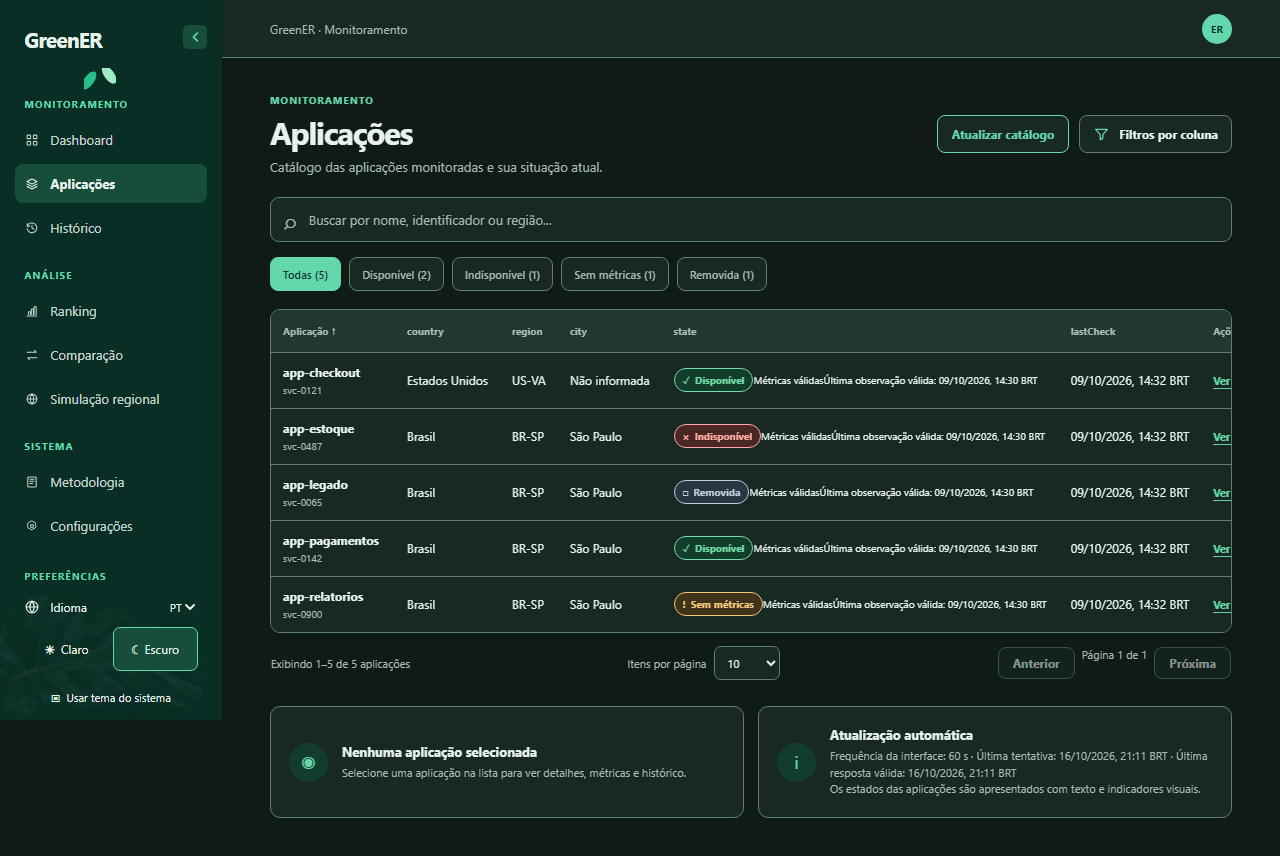
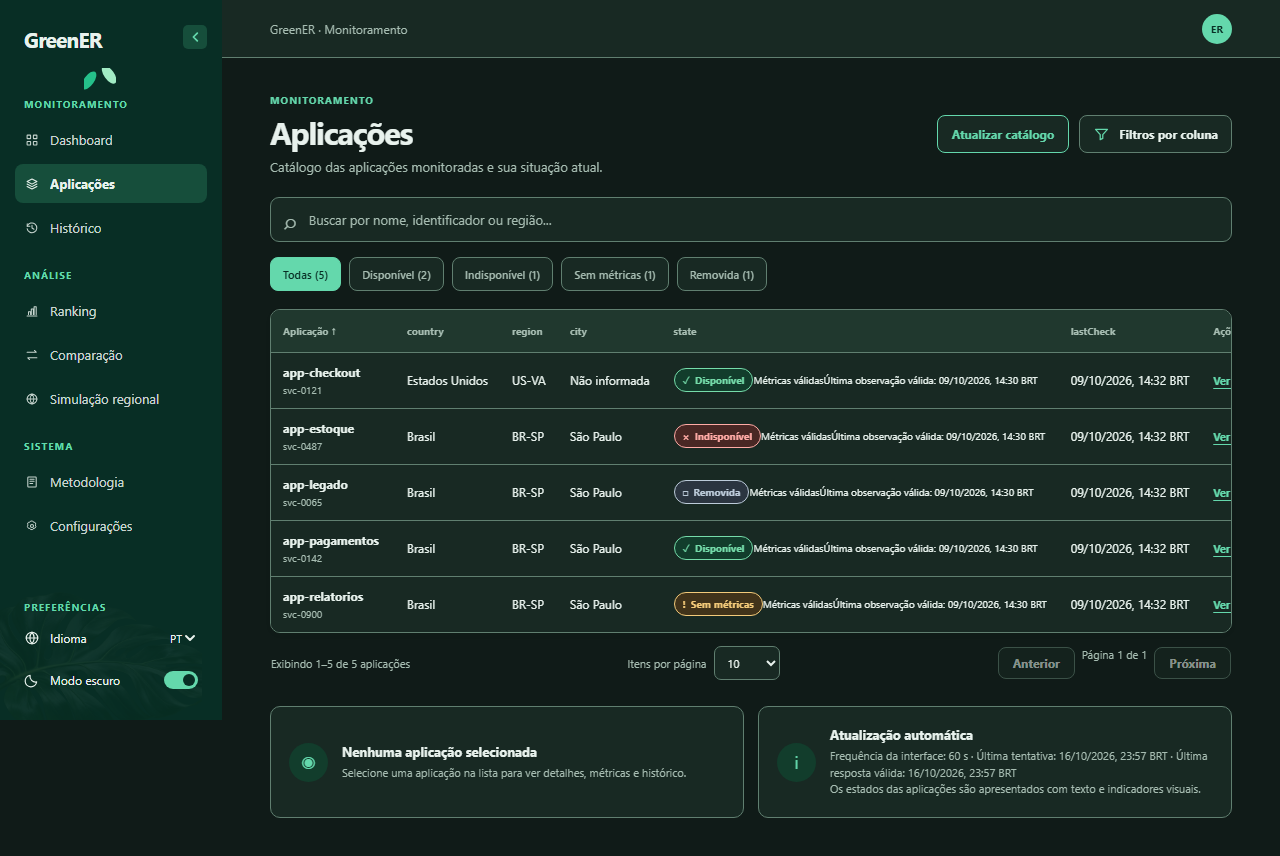
fix(frontend): alinhar interruptor de tema à referência
Refs #214

diff --git a/frontend/e2e/theme.spec.ts b/frontend/e2e/theme.spec.ts
@@ -1,25 +1,47 @@
 import { expect, test } from '@playwright/test'
 import { application, gate, mixedCatalog, mockApi, mockCatalog, row, unavailable } from './support/catalog.ts'
 
+test('interruptor único Modo escuro alterna entre claro e escuro', async ({ page }) => {
+  await page.emulateMedia({ colorScheme: 'light' })
+  await mockCatalog(page, [])
+  await page.goto('/')
+  const toggle = page.getByRole('switch', { name: 'Modo escuro', exact: true })
+  await expect(toggle).toHaveAttribute('aria-checked', 'false')
+  await expect(toggle.locator('.theme-switch > span')).toHaveCSS('transition-duration', '0.18s')
+  await toggle.click()
+  await expect(toggle).toHaveAttribute('aria-checked', 'true')
+  await expect(page.locator('html')).toHaveCSS('color-scheme', 'dark')
+  await toggle.click()
+  await expect(toggle).toHaveAttribute('aria-checked', 'false')
+  await expect(page.locator('html')).toHaveCSS('color-scheme', 'light')
+  await expect(page.getByRole('button', { name: 'Usar tema do sistema', exact: true })).toHaveCount(0)
+})
+
+test('interruptor respeita a preferência por movimento reduzido', async ({ page }) => {
+  await page.emulateMedia({ reducedMotion: 'reduce' })
+  await mockCatalog(page, [])
+  await page.goto('/')
+  await expect(page.getByRole('switch', { name: 'Modo escuro', exact: true }).locator('.theme-switch > span'))
+    .toHaveCSS('transition-property', 'none')
+})
+
 test('preferências de tema têm nomes acessíveis nos oito idiomas', async ({ page }) => {
   await mockCatalog(page, [])
   await page.goto('/')
   const language = page.getByRole('combobox').filter({ has: page.locator('option[value="en-US"]') })
   const cases = [
-    ['pt-BR', 'Claro', 'Escuro', 'Usar tema do sistema'],
-    ['en-US', 'Light', 'Dark', 'Use system theme'],
-    ['es-ES', 'Claro', 'Oscuro', 'Usar tema del sistema'],
-    ['fr-FR', 'Clair', 'Sombre', 'Utiliser le thème du système'],
-    ['de-DE', 'Hell', 'Dunkel', 'Systemdesign verwenden'],
-    ['it-IT', 'Chiaro', 'Scuro', 'Usa il tema di sistema'],
-    ['ja-JP', 'ライト', 'ダーク', 'システムのテーマを使用'],
-    ['zh-CN', '浅色', '深色', '使用系统主题'],
+    ['pt-BR', 'Modo escuro'],
+    ['en-US', 'Dark mode'],
+    ['es-ES', 'Modo oscuro'],
+    ['fr-FR', 'Mode sombre'],
+    ['de-DE', 'Dunkelmodus'],
+    ['it-IT', 'Modalità scura'],
+    ['ja-JP', 'ダークモード'],
+    ['zh-CN', '深色模式'],
   ]
-  for (const [locale, light, dark, system] of cases) {
+  for (const [locale, label] of cases) {
     await language.selectOption(locale)
-    await expect(page.getByRole('button', { name: light, exact: true })).toBeVisible()
-    await expect(page.getByRole('button', { name: dark, exact: true })).toBeVisible()
-    await expect(page.getByRole('button', { name: system, exact: true })).toHaveAttribute('aria-pressed', 'true')
+    await expect(page.getByRole('switch', { name: label, exact: true })).toBeVisible()
   }
 })
 
@@ -27,40 +49,41 @@ test('escolha explícita persiste na recarga e na navegação sem perder filtros
   await page.emulateMedia({ colorScheme: 'light' })
   await mockCatalog(page, [application()])
   await page.goto('/?search=pagamentos')
-  await page.getByRole('button', { name: 'Escuro', exact: true }).click()
+  await page.getByRole('switch', { name: 'Modo escuro', exact: true }).click()
   await expect(page.locator('html')).toHaveCSS('color-scheme', 'dark')
   await page.reload()
-  await expect(page.getByRole('button', { name: 'Escuro', exact: true })).toHaveAttribute('aria-pressed', 'true')
+  await expect(page.getByRole('switch', { name: 'Modo escuro', exact: true })).toHaveAttribute('aria-checked', 'true')
   await row(page, 'svc-0142').getByRole('link').click()
   await expect(page.getByRole('heading', { name: 'Identificação e situação', exact: true })).toBeVisible()
   await expect(page.locator('html')).toHaveCSS('color-scheme', 'dark')
   await page.getByRole('link', { name: /voltar/i }).click()
   await expect(page).toHaveURL(/search=pagamentos/)
-  await page.getByRole('button', { name: 'Claro', exact: true }).click()
+  await page.getByRole('switch', { name: 'Modo escuro', exact: true }).click()
   await page.reload()
   await expect(page.locator('html')).toHaveCSS('color-scheme', 'light')
-  await expect(page.getByRole('button', { name: 'Claro', exact: true })).toHaveAttribute('aria-pressed', 'true')
+  await expect(page.getByRole('switch', { name: 'Modo escuro', exact: true })).toHaveAttribute('aria-checked', 'false')
 })
 
-test('sistema acompanha mudanças, escolha manual prevalece e ação restaura o acompanhamento', async ({ page }) => {
+test('sistema acompanha mudanças até a primeira escolha manual', async ({ page }) => {
   await page.emulateMedia({ colorScheme: 'dark' })
   await mockCatalog(page, [])
   await page.goto('/')
-  const system = page.getByRole('button', { name: 'Usar tema do sistema', exact: true })
-  await expect(system).toHaveAttribute('aria-pressed', 'true')
+  const toggle = page.getByRole('switch', { name: 'Modo escuro', exact: true })
+  await expect(toggle).toHaveAttribute('aria-checked', 'true')
   await expect(page.locator('html')).toHaveCSS('color-scheme', 'dark')
   await page.emulateMedia({ colorScheme: 'light' })
   await expect(page.locator('html')).toHaveCSS('color-scheme', 'light')
-  await page.getByRole('button', { name: 'Escuro', exact: true }).click()
+  await expect(toggle).toHaveAttribute('aria-checked', 'false')
+  await toggle.click()
   await page.emulateMedia({ colorScheme: 'dark' })
   await page.emulateMedia({ colorScheme: 'light' })
   await expect(page.locator('html')).toHaveCSS('color-scheme', 'dark')
-  await system.click()
+  await toggle.click()
   await expect(page.locator('html')).toHaveCSS('color-scheme', 'light')
   await page.reload()
-  await expect(system).toHaveAttribute('aria-pressed', 'true')
+  await expect(toggle).toHaveAttribute('aria-checked', 'false')
   await page.emulateMedia({ colorScheme: 'dark' })
-  await expect(page.locator('html')).toHaveCSS('color-scheme', 'dark')
+  await expect(page.locator('html')).toHaveCSS('color-scheme', 'light')
 })
 
 for (const saved of ['light', 'dark', 'system', 'invalid', null]) {
@@ -80,24 +103,21 @@ test('controles funcionam por teclado na sidebar recolhida e no mobile', async (
   await mockCatalog(page, mixedCatalog)
   await page.goto('/')
   await page.getByRole('button', { name: 'Recolher navegação' }).click()
-  const dark = page.getByRole('button', { name: 'Escuro', exact: true })
+  const dark = page.getByRole('switch', { name: 'Modo escuro', exact: true })
   await dark.focus()
   await page.keyboard.press('Enter')
-  await expect(dark).toHaveAttribute('aria-pressed', 'true')
+  await expect(dark).toHaveAttribute('aria-checked', 'true')
   await expect(dark).toBeFocused()
   await expect(dark).toHaveCSS('outline-style', 'solid')
-  await page.keyboard.press('Tab')
-  const system = page.getByRole('button', { name: 'Usar tema do sistema', exact: true })
-  await expect(system).toBeFocused()
   await page.keyboard.press('Space')
-  await expect(system).toHaveAttribute('aria-pressed', 'true')
+  await expect(dark).toHaveAttribute('aria-checked', 'false')
   await page.setViewportSize({ width: 390, height: 844 })
   await page.getByRole('button', { name: 'Abrir menu' }).click()
-  await expect(system).toBeVisible()
-  const size = await system.boundingBox()
+  await expect(dark).toBeVisible()
+  const size = await dark.boundingBox()
   expect(size?.height).toBeGreaterThanOrEqual(44)
-  await page.getByRole('button', { name: 'Claro', exact: true }).click()
-  await expect(page.locator('html')).toHaveCSS('color-scheme', 'light')
+  await dark.click()
+  await expect(page.locator('html')).toHaveCSS('color-scheme', 'dark')
   await page.keyboard.press('Escape')
   await expect(page.getByRole('button', { name: 'Abrir menu' })).toBeFocused()
   await expect(page.getByRole('heading', { name: 'app-pagamentos', exact: true })).toBeVisible()
@@ -111,11 +131,11 @@ test('armazenamento bloqueado não impede carregar e escolher o tema na sessão'
   await mockCatalog(page, [])
   await page.goto('/')
   await expect(page.getByRole('heading', { level: 1, name: 'Aplicações', exact: true })).toBeVisible()
-  await page.getByRole('button', { name: 'Claro', exact: true }).click()
+  await page.getByRole('switch', { name: 'Modo escuro', exact: true }).click()
   await expect(page.locator('html')).toHaveCSS('color-scheme', 'light')
   await page.emulateMedia({ colorScheme: 'light' })
   await page.emulateMedia({ colorScheme: 'dark' })
-  await expect(page.getByRole('button', { name: 'Claro', exact: true })).toHaveAttribute('aria-pressed', 'true')
+  await expect(page.getByRole('switch', { name: 'Modo escuro', exact: true })).toHaveAttribute('aria-checked', 'false')
   await expect(page.locator('html')).toHaveCSS('color-scheme', 'light')
 })
 
@@ -123,7 +143,8 @@ test('texto, estados e controles mantêm contraste nos dois temas', async ({ pag
   await mockCatalog(page, mixedCatalog)
   await page.goto('/')
   for (const name of ['Claro', 'Escuro']) {
-    await page.getByRole('button', { name, exact: true }).click()
+    const toggle = page.getByRole('switch', { name: 'Modo escuro', exact: true })
+    if ((await toggle.getAttribute('aria-checked')) !== String(name === 'Escuro')) await toggle.click()
     const checks = await page.evaluate(() => {
       function luminance(color: string) {
         const channels = color.match(/[\d.]+/g)!.slice(0, 3).map(Number).map((channel) => {
@@ -140,7 +161,7 @@ test('texto, estados e controles mantêm contraste nos dois temas', async ({ pag
         const color = getComputedStyle(element).backgroundColor
         return color === 'rgba(0, 0, 0, 0)' && element.parentElement ? background(element.parentElement) : color
       }
-      const text = [...document.querySelectorAll('h1, .page-heading p, th, td, .identifier, .detail-link, .state-badge, .theme-selector button, .button:not(:disabled)')]
+      const text = [...document.querySelectorAll('h1, .page-heading p, th, td, .identifier, .detail-link, .state-badge, .theme-toggle, .button:not(:disabled)')]
         .filter((element) => element.getClientRects().length > 0)
         .map((element) => ({ label: element.textContent, minimum: 4.5, actual: ratio(getComputedStyle(element).color, background(element)) }))
       const search = document.querySelector('input[type="search"]')!.parentElement!
@@ -165,7 +186,8 @@ for (const theme of ['Claro', 'Escuro']) {
       }
     })
     await page.goto('/')
-    await page.getByRole('button', { name: theme, exact: true }).click()
+    const toggle = page.getByRole('switch', { name: 'Modo escuro', exact: true })
+    if ((await toggle.getAttribute('aria-checked')) !== String(theme === 'Escuro')) await toggle.click()
     try {
       await expect(page.getByText('Carregando aplicações...', { exact: true })).toBeVisible()
     } finally { pending.release() }

diff --git a/frontend/src/components/ThemeSelector.css b/frontend/src/components/ThemeSelector.css
@@ -1,12 +1,16 @@
-.theme-selector { display: flex; flex-direction: column; gap: 4px; min-width: 0; }
-.theme-options { display: flex; flex-wrap: wrap; gap: 4px; }
-.theme-selector button { display: flex; align-items: center; justify-content: center; gap: 6px; min-width: 44px; min-height: 44px; flex: 1; border: 1px solid transparent; border-radius: 7px; padding: 6px; color: var(--navigation-text); background: transparent; font: inherit; font-size: 12px; overflow-wrap: anywhere; cursor: pointer; }
-.theme-selector button:hover { background: var(--navigation-active); }
-.theme-selector button[aria-pressed='true'] { border-color: var(--navigation-focus); background: var(--navigation-active); }
-.theme-selector button:focus-visible { outline-color: var(--navigation-focus); }
-.theme-system { font-size: 11px !important; }
+.theme-toggle { display: flex; align-items: center; gap: 10px; width: 100%; min-height: 44px; border: 0; border-radius: 7px; padding: 0; color: var(--navigation-text); background: transparent; font: inherit; text-align: left; cursor: pointer; }
+.theme-icon { width: 16px; height: 16px; flex: 0 0 auto; fill: none; stroke: currentColor; stroke-linecap: round; stroke-linejoin: round; stroke-width: 1.5; }
+.theme-label { min-width: 0; overflow-wrap: anywhere; font-size: 12px; }
+.theme-switch { display: flex; align-items: center; flex: 0 0 auto; width: 34px; height: 18px; margin-left: auto; border-radius: 999px; padding: 3px; background: var(--switch-track-off); }
+.theme-switch > span { width: 12px; height: 12px; border-radius: 50%; background: var(--switch-thumb-off); transition: transform 180ms ease-out; }
+.theme-toggle[aria-checked='true'] .theme-switch { background: var(--accent-default); }
+.theme-toggle[aria-checked='true'] .theme-switch > span { transform: translateX(16px); background: var(--accent-on-accent); }
+.theme-toggle:focus-visible { outline: 2px solid var(--navigation-focus); outline-offset: 3px; }
+.theme-toggle:disabled { cursor: not-allowed; opacity: .5; }
+@media (prefers-reduced-motion: reduce) {
+  .theme-switch > span { transition: none; }
+}
 @media (min-width: 641px) {
-  .sidebar-collapsed .theme-option-label { display: none; }
-  .sidebar-collapsed .theme-options { flex-direction: column; }
-  .sidebar-collapsed .sidebar-preferences { max-height: none; }
+  .sidebar-collapsed .theme-toggle { justify-content: center; }
+  .sidebar-collapsed .theme-label, .sidebar-collapsed .theme-switch { display: none; }
 }

diff --git a/frontend/e2e/applications.spec.ts b/frontend/e2e/applications.spec.ts
@@ -569,21 +569,21 @@ test('preferências da sidebar alternam tema e mantêm os ícones ao recolher', 
   await page.goto('/')
 
   const sidebar = page.getByRole('complementary')
-  const themeToggle = page.getByRole('button', { name: 'Escuro', exact: true })
-  await expect(themeToggle).toHaveAttribute('aria-pressed', 'false')
+  const themeToggle = page.getByRole('switch', { name: 'Modo escuro', exact: true })
+  await expect(themeToggle).toHaveAttribute('aria-checked', 'false')
   await expect(sidebar).toHaveCSS('background-color', 'rgb(0, 61, 49)')
   await themeToggle.click()
-  await expect(themeToggle).toHaveAttribute('aria-pressed', 'true')
+  await expect(themeToggle).toHaveAttribute('aria-checked', 'true')
   await expect(sidebar).toHaveCSS('background-color', 'rgb(8, 46, 37)')
   await page.reload()
-  await expect(page.getByRole('button', { name: 'Escuro', exact: true })).toHaveAttribute('aria-pressed', 'true')
+  await expect(page.getByRole('switch', { name: 'Modo escuro', exact: true })).toHaveAttribute('aria-checked', 'true')
   await expect(sidebar).toHaveCSS('background-color', 'rgb(8, 46, 37)')
 
   await page.getByRole('button', { name: 'Recolher navegação' }).click()
-  const collapsedThemeToggle = page.getByRole('button', { name: 'Escuro', exact: true })
+  const collapsedThemeToggle = page.getByRole('switch', { name: 'Modo escuro', exact: true })
   await expect(collapsedThemeToggle).toBeVisible()
   await expect(page.getByRole('combobox', { name: 'Idioma' })).toBeVisible()
-  await page.getByRole('button', { name: 'Claro', exact: true }).click()
+  await collapsedThemeToggle.click()
   await expect(sidebar).toHaveCSS('background-color', 'rgb(0, 61, 49)')
 })
 
@@ -594,7 +594,7 @@ test('foco do menu móvel entra no drawer e permanece contido por Tab', async ({
 
   await page.getByRole('button', { name: 'Abrir menu' }).click()
   const closeButton = page.getByRole('dialog').getByRole('button', { name: 'Fechar menu' })
-  const themeToggle = page.getByRole('dialog').getByRole('button', { name: 'Usar tema do sistema', exact: true })
+  const themeToggle = page.getByRole('dialog').getByRole('switch', { name: 'Modo escuro', exact: true })
   await expect(closeButton).toBeFocused()
 
   await page.keyboard.press('Shift+Tab')

diff --git a/frontend/src/app/useTheme.ts b/frontend/src/app/useTheme.ts
@@ -9,19 +9,22 @@ function preferenceOf(value: string | null | undefined): ThemePreference {
 export function useTheme() {
   const [preference, setPreference] = useState<ThemePreference>(() =>
     preferenceOf(document.documentElement.dataset.themePreference))
+  const [systemDark, setSystemDark] = useState(() => window.matchMedia('(prefers-color-scheme: dark)').matches)
+  const systemTheme = systemDark ? 'dark' : 'light'
+  const theme = preference === 'system' ? systemTheme : preference
 
   useEffect(() => {
     const media = window.matchMedia('(prefers-color-scheme: dark)')
-    const apply = () => {
-      const theme = preference === 'system' ? (media.matches ? 'dark' : 'light') : preference
-      document.documentElement.dataset.themePreference = preference
-      document.documentElement.dataset.theme = theme
-      document.documentElement.style.colorScheme = theme
-    }
-    apply()
-    media.addEventListener('change', apply)
-    return () => media.removeEventListener('change', apply)
-  }, [preference])
+    const followSystem = (event: MediaQueryListEvent) => setSystemDark(event.matches)
+    media.addEventListener('change', followSystem)
+    return () => media.removeEventListener('change', followSystem)
+  }, [])
+
+  useEffect(() => {
+    document.documentElement.dataset.themePreference = preference
+    document.documentElement.dataset.theme = theme
+    document.documentElement.style.colorScheme = theme
+  }, [preference, theme])
 
   function chooseTheme(next: ThemePreference) {
     setPreference(next)
@@ -29,5 +32,5 @@ export function useTheme() {
     catch { /* Keep the choice in memory when persistence is blocked. */ }
   }
 
-  return { preference, chooseTheme }
+  return { theme, chooseTheme }
 }

diff --git a/frontend/src/components/ThemeSelector.tsx b/frontend/src/components/ThemeSelector.tsx
@@ -4,18 +4,11 @@ import './ThemeSelector.css'
 
 export function ThemeSelector() {
   const { t } = useTranslation('common')
-  const { preference, chooseTheme } = useTheme()
-  return <div className="theme-selector" role="group" aria-label={t('theme.label')}>
-    <div className="theme-options">
-      <button type="button" aria-label={t('theme.light')} aria-pressed={preference === 'light'} onClick={() => chooseTheme('light')}>
-        <span aria-hidden="true">☀</span><span className="theme-option-label">{t('theme.light')}</span>
-      </button>
-      <button type="button" aria-label={t('theme.dark')} aria-pressed={preference === 'dark'} onClick={() => chooseTheme('dark')}>
-        <span aria-hidden="true">☾</span><span className="theme-option-label">{t('theme.dark')}</span>
-      </button>
-    </div>
-    <button className="theme-system" type="button" aria-label={t('theme.system')} aria-pressed={preference === 'system'} onClick={() => chooseTheme('system')}>
-      <span aria-hidden="true">▣</span><span className="theme-option-label">{t('theme.system')}</span>
-    </button>
-  </div>
+  const { theme, chooseTheme } = useTheme()
+  const dark = theme === 'dark'
+  return <button className="theme-toggle" type="button" role="switch" aria-label={t('theme.darkMode')} aria-checked={dark} onClick={() => chooseTheme(dark ? 'light' : 'dark')}>
+    <svg className="theme-icon" aria-hidden="true" viewBox="0 0 20 20"><path d="M15.8 12.4A7 7 0 0 1 7.6 4.2 7.2 7.2 0 1 0 15.8 12.4Z" /></svg>
+    <span className="theme-label">{t('theme.darkMode')}</span>
+    <span className="theme-switch" aria-hidden="true"><span /></span>
+  </button>
 }

diff --git a/frontend/src/components/AppShell.css b/frontend/src/components/AppShell.css
@@ -83,7 +83,7 @@
 }
 .sidebar nav button:focus-visible, .sidebar nav a:focus-visible, .sidebar-collapse-toggle:focus-visible, .brand:focus-visible { outline: 2px solid var(--sidebar-accent); outline-offset: 2px; }
 @media (prefers-reduced-motion: reduce) {
-  .app-layout, .sidebar, .brand-name, .brand-initial, .sidebar-leaf-mark, .nav-heading, .nav-label, .sidebar-preferences, .sidebar-collapse-toggle svg { transition-duration: .01ms !important; }
+  .app-layout, .sidebar, .brand-name, .brand-initial, .sidebar-leaf-mark, .nav-heading, .nav-label, .sidebar-preferences, .sidebar-collapse-toggle svg { transition-duration: .01ms; }
 }
 .topbar-actions { display: flex; align-items: center; gap: 14px; }
 @media (max-width: 640px) {

diff --git a/frontend/src/styles/theme.css b/frontend/src/styles/theme.css
@@ -27,6 +27,8 @@
   --neutral-background: #eef1f6;
   --navigation-text: #e8f2ed;
   --navigation-focus: #64d8ac;
+  --switch-track-off: #4f6e60;
+  --switch-thumb-off: #e8f2ed;
 }
 :root[data-theme='dark'] {
   --background-page: #101b18;
@@ -56,4 +58,6 @@
   --neutral-background: #2b3540;
   --navigation-text: #e8f2ed;
   --navigation-focus: #64d8ac;
+  --switch-track-off: #4f6e60;
+  --switch-thumb-off: #e8f2ed;
 }

diff --git a/frontend/README.md b/frontend/README.md
@@ -55,7 +55,10 @@ frontend; o gate SonarQube Cloud continua obrigatório na PR para `develop`.
 
 ## Temas (US-17 / #214)
 
-As preferências da sidebar oferecem Claro/Escuro e a ação Usar tema do sistema.
+As preferências da sidebar oferecem um único interruptor “Modo escuro”, conforme
+a revisão visual do solicitante: desligado aplica claro; ligado aplica escuro.
+O primeiro acesso segue o sistema até a primeira interação. Esta revisão remove
+a ação visível de retorno ao sistema, ajustando esse critério original da US-17.
 A preferência local (`greener-theme`: `light`, `dark`, `system`) é distinta da
 aparência efetiva. Ausência ou valor inválido segue o sistema; escolhas antigas
 claro/escuro continuam válidas. Armazenamento indisponível não impede alternar
@@ -64,7 +67,7 @@ na sessão, mas não garante persistência após recarga.
 O script clássico bloqueante em `public/theme-init.js`, referenciado no início
 do documento, aplica a escolha antes da primeira pintura. `app/useTheme.ts`
 coordena a preferência e mudanças do sistema; `components/ThemeSelector` apresenta
-os controles. Os tokens ficam em `styles/theme.css`, no elemento raiz, e os
+o interruptor. Os tokens ficam em `styles/theme.css`, no elemento raiz, e os
 estilos das páginas consomem esses tokens. Não há chamada de API para temas.
 
 A referência é a tabela semântica inferior do PNG “Design System · Cores e

diff --git a/docs/ja-JP/guide/monitoring.md b/docs/ja-JP/guide/monitoring.md
@@ -38,6 +38,6 @@ UIは試行時刻と有効な応答時刻を表示します。成功後の失敗
 
 ## テーマの設定
 
-ナビゲーションの設定で **ライト** または **ダーク** を選択します。**システムのテーマを使用** を選ぶと、使用中の変更も含めてシステムの外観に自動で追従します。初回アクセス時はシステムに従います。
+ナビゲーションの設定で **ダークモード** スイッチを使用します。オフでライト、オンでダークになります。初回アクセス時は、スイッチを操作するまで使用中の変更も含めてシステムの外観に従います。その後は明示的な選択が優先されます。この画面にはシステムへの追従に戻す操作はありません。
 
 設定はカタログ、詳細、共通レイアウトに適用され、フィルターやデータは変更しません。このブラウザーの `greener-theme` に保存され、次回も使用されます。保存がブロックされてもセッション中は選択できますが、再読み込みで失われる場合があります。

diff --git a/docs/fr-FR/guide/monitoring.md b/docs/fr-FR/guide/monitoring.md
@@ -38,6 +38,6 @@ Signaler environnement, ID, filtres, date/heure avec fuseau, action et résultat
 
 ## Préférence de thème
 
-Dans les préférences de navigation, choisissez **Clair** ou **Sombre**. **Utiliser le thème du système** rétablit le suivi automatique de l’apparence du système, y compris ses changements pendant l’utilisation. Lors de la première visite, GreenER suit le système.
+Dans les préférences de navigation, utilisez l’interrupteur **Mode sombre** : désactivé pour le thème clair, activé pour le thème sombre. Lors de la première visite, GreenER suit l’apparence du système, y compris ses changements pendant l’utilisation, jusqu’à l’activation de l’interrupteur. Votre choix explicite prévaut ensuite ; cette interface ne propose pas d’action pour rétablir le suivi du système.
 
 Le choix s’applique au catalogue, aux détails et à la présentation globale sans modifier les filtres ni les données. Il est conservé dans ce navigateur sous `greener-theme` pour la prochaine visite. Si le stockage est bloqué, le choix fonctionne pendant la session mais peut être perdu au rechargement.

diff --git a/docs/guide/monitoring.md b/docs/guide/monitoring.md
@@ -42,6 +42,6 @@ Ao relatar um problema, informe ambiente, ID, filtros, horário com fuso, ação
 
 ## Preferência de tema
 
-Nas preferências da navegação, escolha **Claro** ou **Escuro**. A ação **Usar tema do sistema** restaura o acompanhamento automático da aparência do sistema, inclusive quando ela muda durante o uso. No primeiro acesso, o GreenER segue o sistema.
+Nas preferências da navegação, use o interruptor **Modo escuro**: desligado aplica claro; ligado aplica escuro. No primeiro acesso, o GreenER acompanha a aparência do sistema, inclusive suas mudanças durante o uso, até você acionar o interruptor. A partir daí, vale a escolha explícita; esta interface não oferece uma ação para voltar a seguir o sistema.
 
 A escolha vale para o catálogo, detalhe e layout global, sem alterar filtros ou dados. Ela fica neste navegador, na chave local `greener-theme`, e é recuperada no próximo acesso. Se o navegador bloquear o armazenamento, a escolha continua válida durante a sessão, mas poderá não sobreviver à recarga.

diff --git a/docs/it-IT/guide/monitoring.md b/docs/it-IT/guide/monitoring.md
@@ -38,6 +38,6 @@ Segnalare ambiente, ID, filtri, data/ora con fuso, azione, atteso/osservato. Scr
 
 ## Preferenza del tema
 
-Nelle preferenze di navigazione, scegli **Chiaro** o **Scuro**. **Usa il tema di sistema** ripristina l’adeguamento automatico all’aspetto del sistema, anche quando cambia durante l’utilizzo. Alla prima visita, GreenER segue il sistema.
+Nelle preferenze di navigazione, usa l’interruttore **Modalità scura**: disattivato applica il tema chiaro; attivato applica quello scuro. Alla prima visita, GreenER segue l’aspetto del sistema e i suoi cambiamenti finché non usi l’interruttore. Da quel momento prevale la scelta esplicita; questa interfaccia non offre un’azione per tornare a seguire il sistema.
 
 La scelta si applica a catalogo, dettagli e layout globale senza modificare filtri o dati. Viene salvata in questo browser con la chiave `greener-theme` per la visita successiva. Se l’archiviazione è bloccata, la scelta funziona durante la sessione ma può perdersi al ricaricamento.
